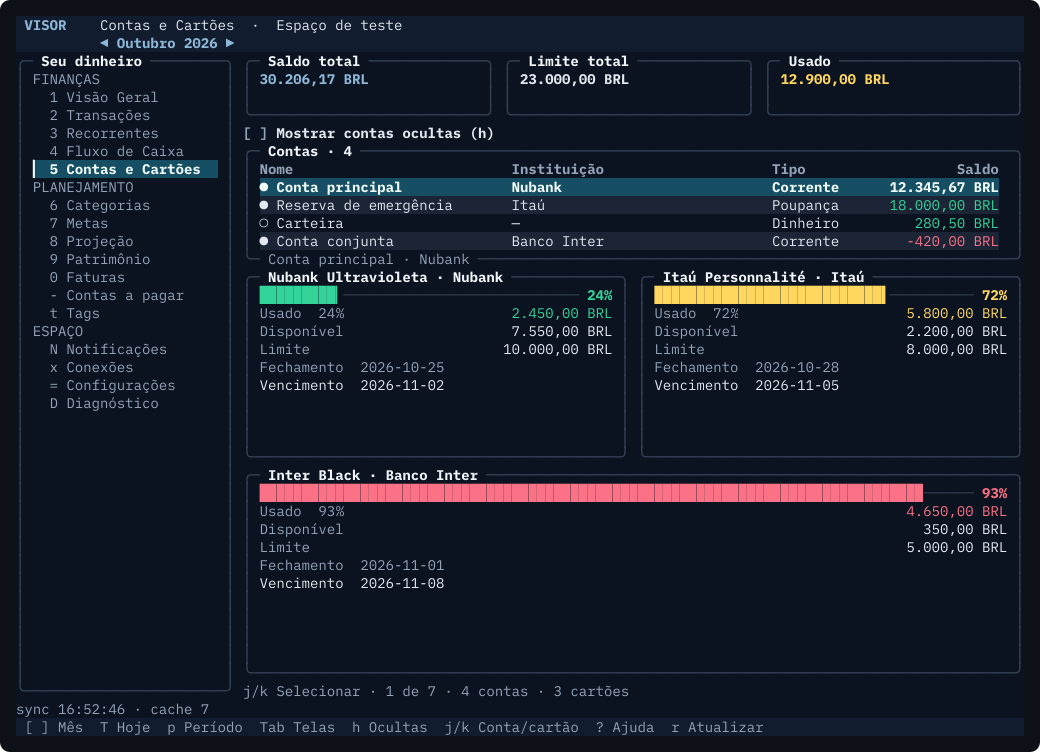
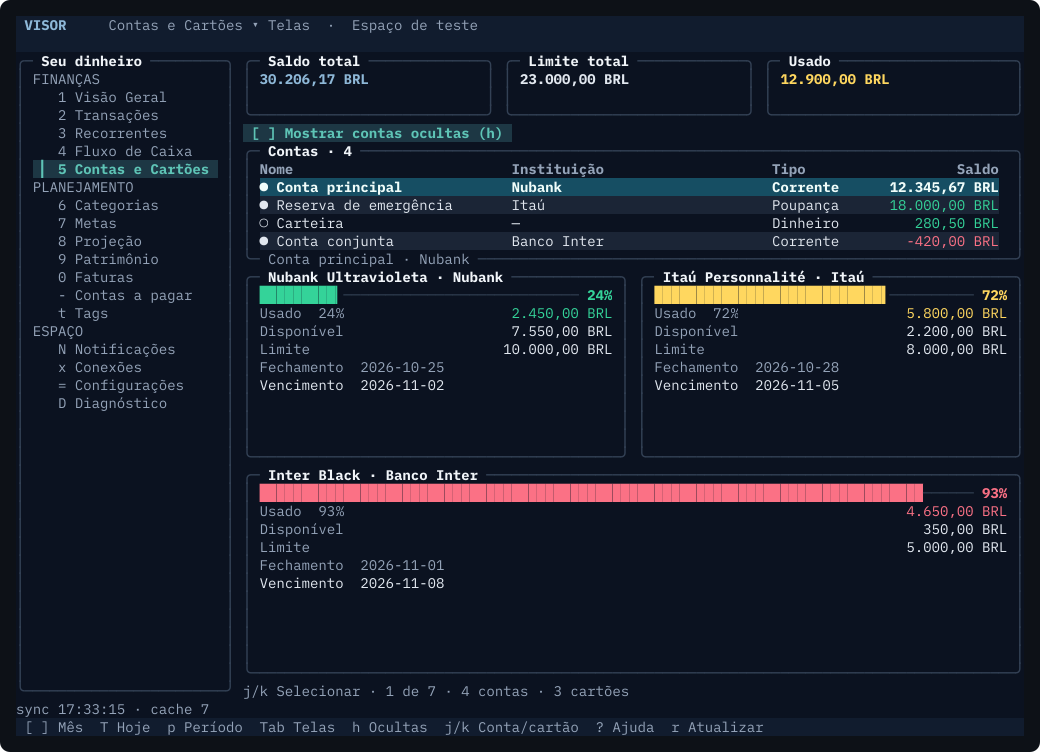
docs(ux): document mouse controls and refresh period bar captures

diff --git a/UX.md b/UX.md
@@ -17,8 +17,10 @@ The selected calendar period persists across screens and space changes.
 
 ## Calendar periods
 
-The default is the current calendar month in Brasília. The header shows the
-selected period. `[` and `]` select the previous or next calendar month relative
+The default is the current calendar month in Brasília. A centered, accented period
+bar spans the content area directly above the summaries and records. Click its
+arrows to change month or its label to open the period picker. Muted keyboard hints
+sit beside the label. `[` and `]` select the previous or next calendar month relative
 to the range's start. `T` returns to the current month. `p` opens the period picker
 with Mês, Semana, Trimestre, Ano and Personalizado. Weeks start on Monday.
 Custom ranges include both endpoints and accept `DD/MM/YYYY` or `YYYY-MM-DD`.
@@ -47,8 +49,9 @@ scope; selected-period movement comes from the complete transaction range.
 The shell uses a restrained blue-gray palette, teal selection, rounded borders,
 and muted secondary text. The wide sidebar groups navigation and highlights only
 the active screen. At 80 columns the sidebar yields its width to the content.
-The header keeps the space name visible, and the footer shows keyboard hints and
-the request status.
+The header keeps the screen and space names visible. Period-based screens have a
+separate period bar above their content. The footer shows keyboard hints and the
+request status.
 
 | Screen | Layout |
 | --- | --- |
@@ -135,6 +138,28 @@ already use them. Card selection, recurring and payable tabs, hidden-item toggle
 and logout retain their existing bindings. Forms and pickers own all input while
 open, including pasted dates and characters that are global shortcuts elsewhere.
 
+## Mouse controls
+
+The terminal enables mouse capture while Visor runs. The sidebar switches screens
+with a click. At compact widths, **Telas** opens a screen picker. Period arrows
+change month, and the period label opens the period picker.
+
+Click a table row to select it. Double-click a transaction to open its details,
+or press `Enter` after selecting it. Other record screens update their selection
+and any inline details. Scroll the wheel over a list or report to move
+through its contents. Recurring tabs, payable status tabs, and bill card controls
+also accept clicks.
+
+Toolbar actions use the same behavior as their keyboard shortcuts. Click a form
+field to focus it, then type or choose a value. Use the wheel to reach fields that
+do not fit in a transaction dialog. Dialog buttons apply, save, confirm, or cancel
+the current action. An open modal owns mouse input, including clicks
+outside its border, so the screen behind it cannot respond.
+
+Hit areas come from the rendered controls and exclude clipped cells. A resize
+rebuilds them for the new layout. Table targets include the displayed scroll offset,
+so a click selects the visible record after scrolling.
+
 ## Transaction forms and filters
 
 - `Tab` / `Shift-Tab` moves between editable fields, scrolling the modal as needed.
@@ -178,6 +203,8 @@ cargo clippy --all-targets -- -D warnings
 cargo test
 PYTHONDONTWRITEBYTECODE=1 UV_CACHE_DIR=/tmp/visor-uv-cache \
   uv run --with pyte python scripts/ux_smoke.py --check-ttl
+PYTHONDONTWRITEBYTECODE=1 UV_CACHE_DIR=/tmp/visor-uv-cache \
+  uv run --with pyte python scripts/ux_smoke.py --mouse-only --sizes 120x40,80x24
 ```
 
 The smoke driver runs the real binary in 120×40, 80×24 and 60×18 terminals against
@@ -187,6 +214,9 @@ space switching and idle behavior. Period checks use date-filtered, multi-page
 fixtures and cover navigation, picker validation, shared ranges and cache reuse.
 Delayed responses and failed later pages verify loading, unavailable totals and
 complete recovery on retry.
+Mouse checks at 120×40 and 80×24 cover capture, period controls, rows, double-click,
+wheel scrolling, toolbar actions, form focus, dialog buttons, and modal isolation.
+They also resize a running terminal and repeat clicks using the new layout.
 The 61-second check beyond the cache TTL runs
 at 120×40. No real account is used.
 
@@ -204,6 +234,6 @@ sidebar clicks, and rejects account mutations in visual-only mode.
 
 Export a reviewed SVG to PNG with `rsvg-convert capture.svg -o capture.png`.
 
-The redesign is verified with build, all-target Clippy with warnings denied, Rust
-tests, the complete keyboard smoke and direct inspection of every data screen at
-120×40 and 80×24.
+Verification includes build, all-target Clippy with warnings denied, Rust tests,
+keyboard and mouse smoke, and direct inspection of every data screen at 120×40
+and 80×24.
